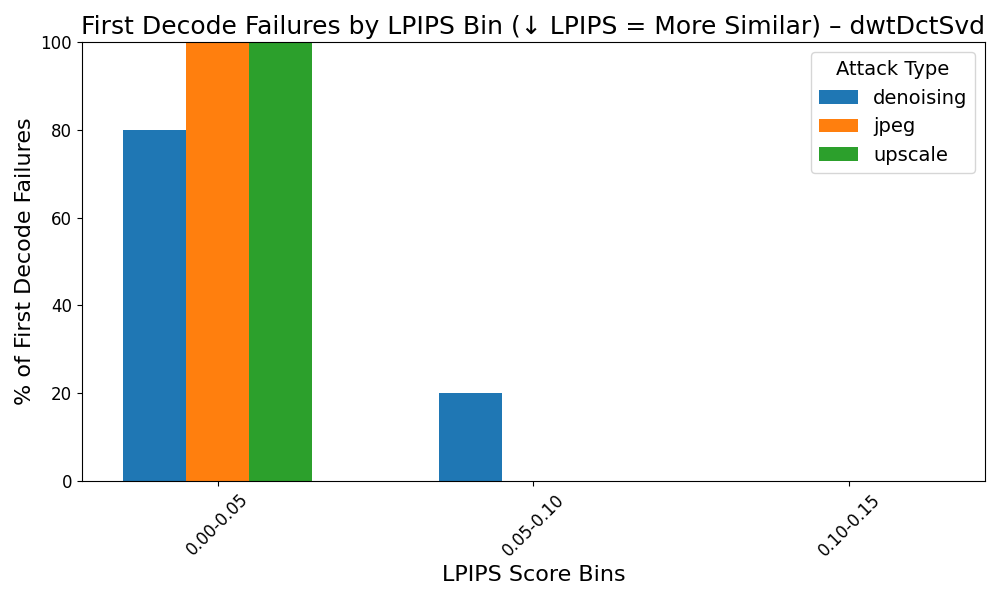
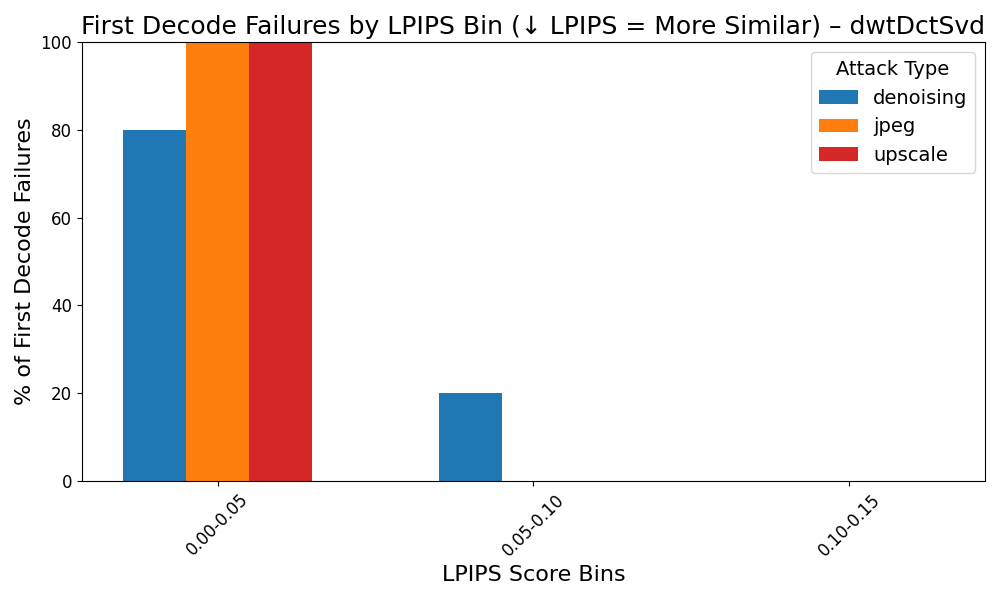
Color changes

Changed region(s): [[0.248, 0.06, 0.31, 0.81], [0.806, 0.24, 0.868, 0.27]]

diff --git a/create_lpips_failure_distribution_plots.py b/create_lpips_failure_distribution_plots.py
@@ -14,9 +14,19 @@ plt.rcParams.update({
     'figure.titlesize': 20
 })
 
+attack_colors_dict = {
+    "denoising": "#1f77b4",     # blue
+    "jpeg": "#ff7f0e",          # orange
+    "upscale": "#d62728",       # red
+    "mask": "#9467bd",          # purple
+    "overlay": "#bcbd22",       # yellow-green
+    "resize": "#e377c2",        # pink
+}
+
+
 # Configurable constants
 methods = ['dwtDct', 'dwtDctSvd', 'rivaGan']
-attacks = [ 'denoising', 'jpeg', 'upscale']
+attacks = [ 'mask', 'overlay', 'resize']
 image_names = [
     "cat", "city_day", "city_night", "desert", "dog", "fish", "food",
     "forest", "man1", "man2", "man3", "mountain", "pages", "woman1", "woman2"
@@ -82,10 +92,6 @@ for method in methods:
                 bin_attack_counts[bin_label][attack] += 1
                 break
 
-    # Color map for attacks
-    attack_colors = plt.get_cmap('tab10')
-    attack_colors_dict = {attack: attack_colors(i % 10) for i, attack in enumerate(attacks)}
-
     # Prepare grouped bar plot
     spacing_scale = 0.4  # try between 0.5–0.8 for tighter spacing
     x = np.arange(len(bin_labels)) * spacing_scale
@@ -127,5 +133,5 @@ for method in methods:
     plt.xticks(group_center, bin_labels, rotation=45)
     plt.legend(title="Attack Type", loc='upper right', frameon=True)
     plt.tight_layout()
-    plt.savefig(f"lpips_failure_distribution_plots/low_lpips/{method}_lpips_failure_distribution.png")
+    plt.savefig(f"lpips_failure_distribution_plots/high_lpips/{method}_lpips_failure_distribution.png")
     plt.close()
